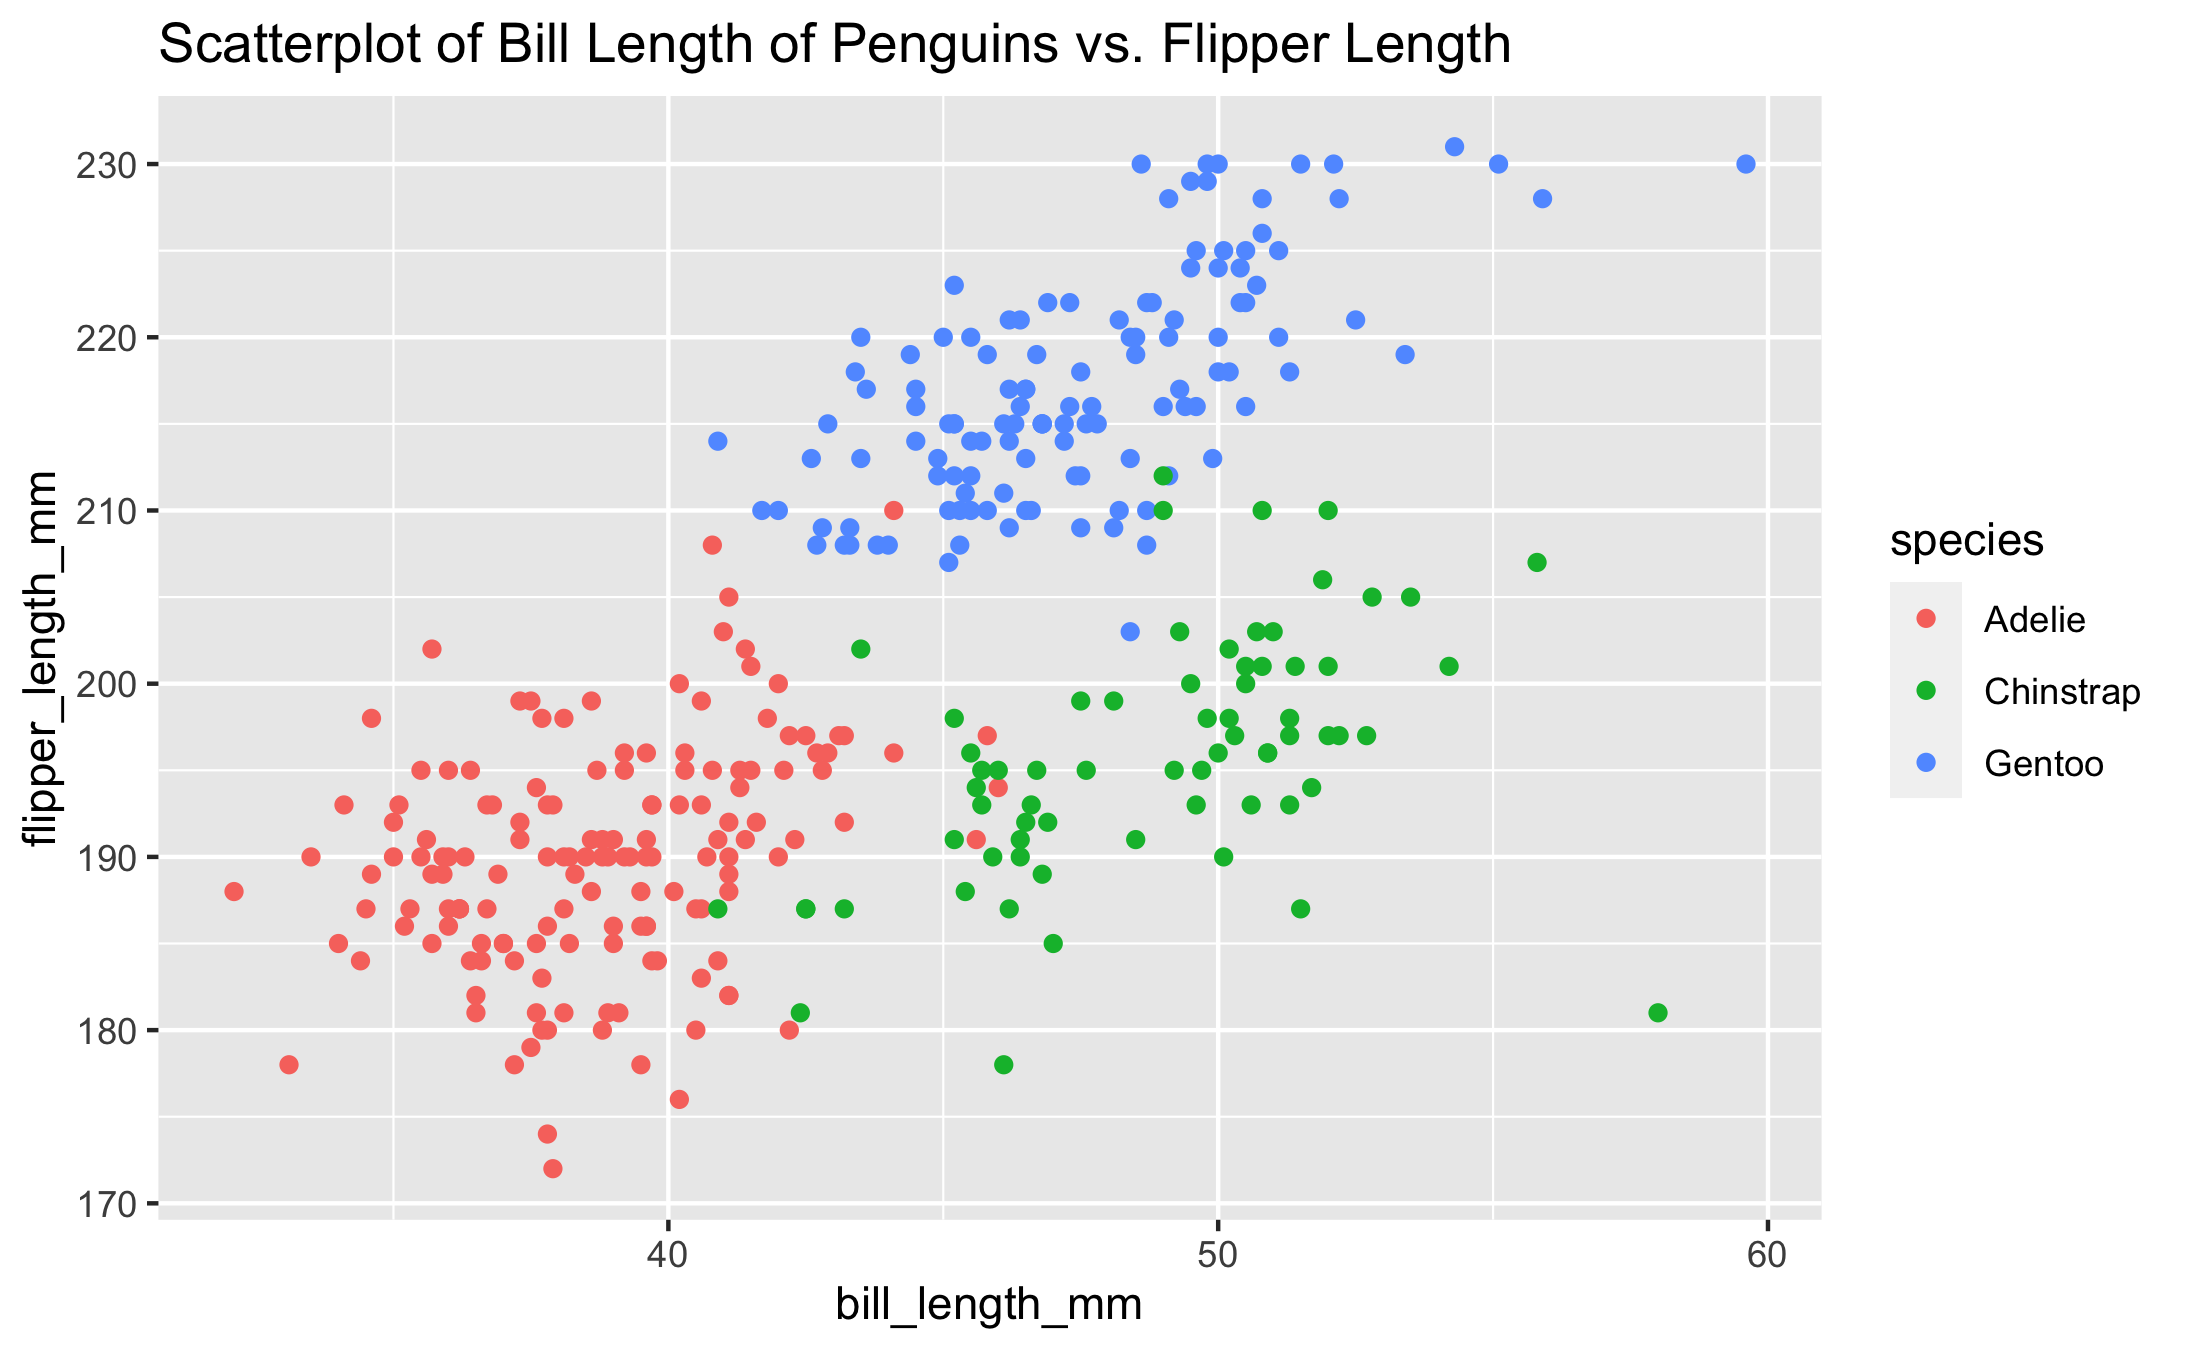
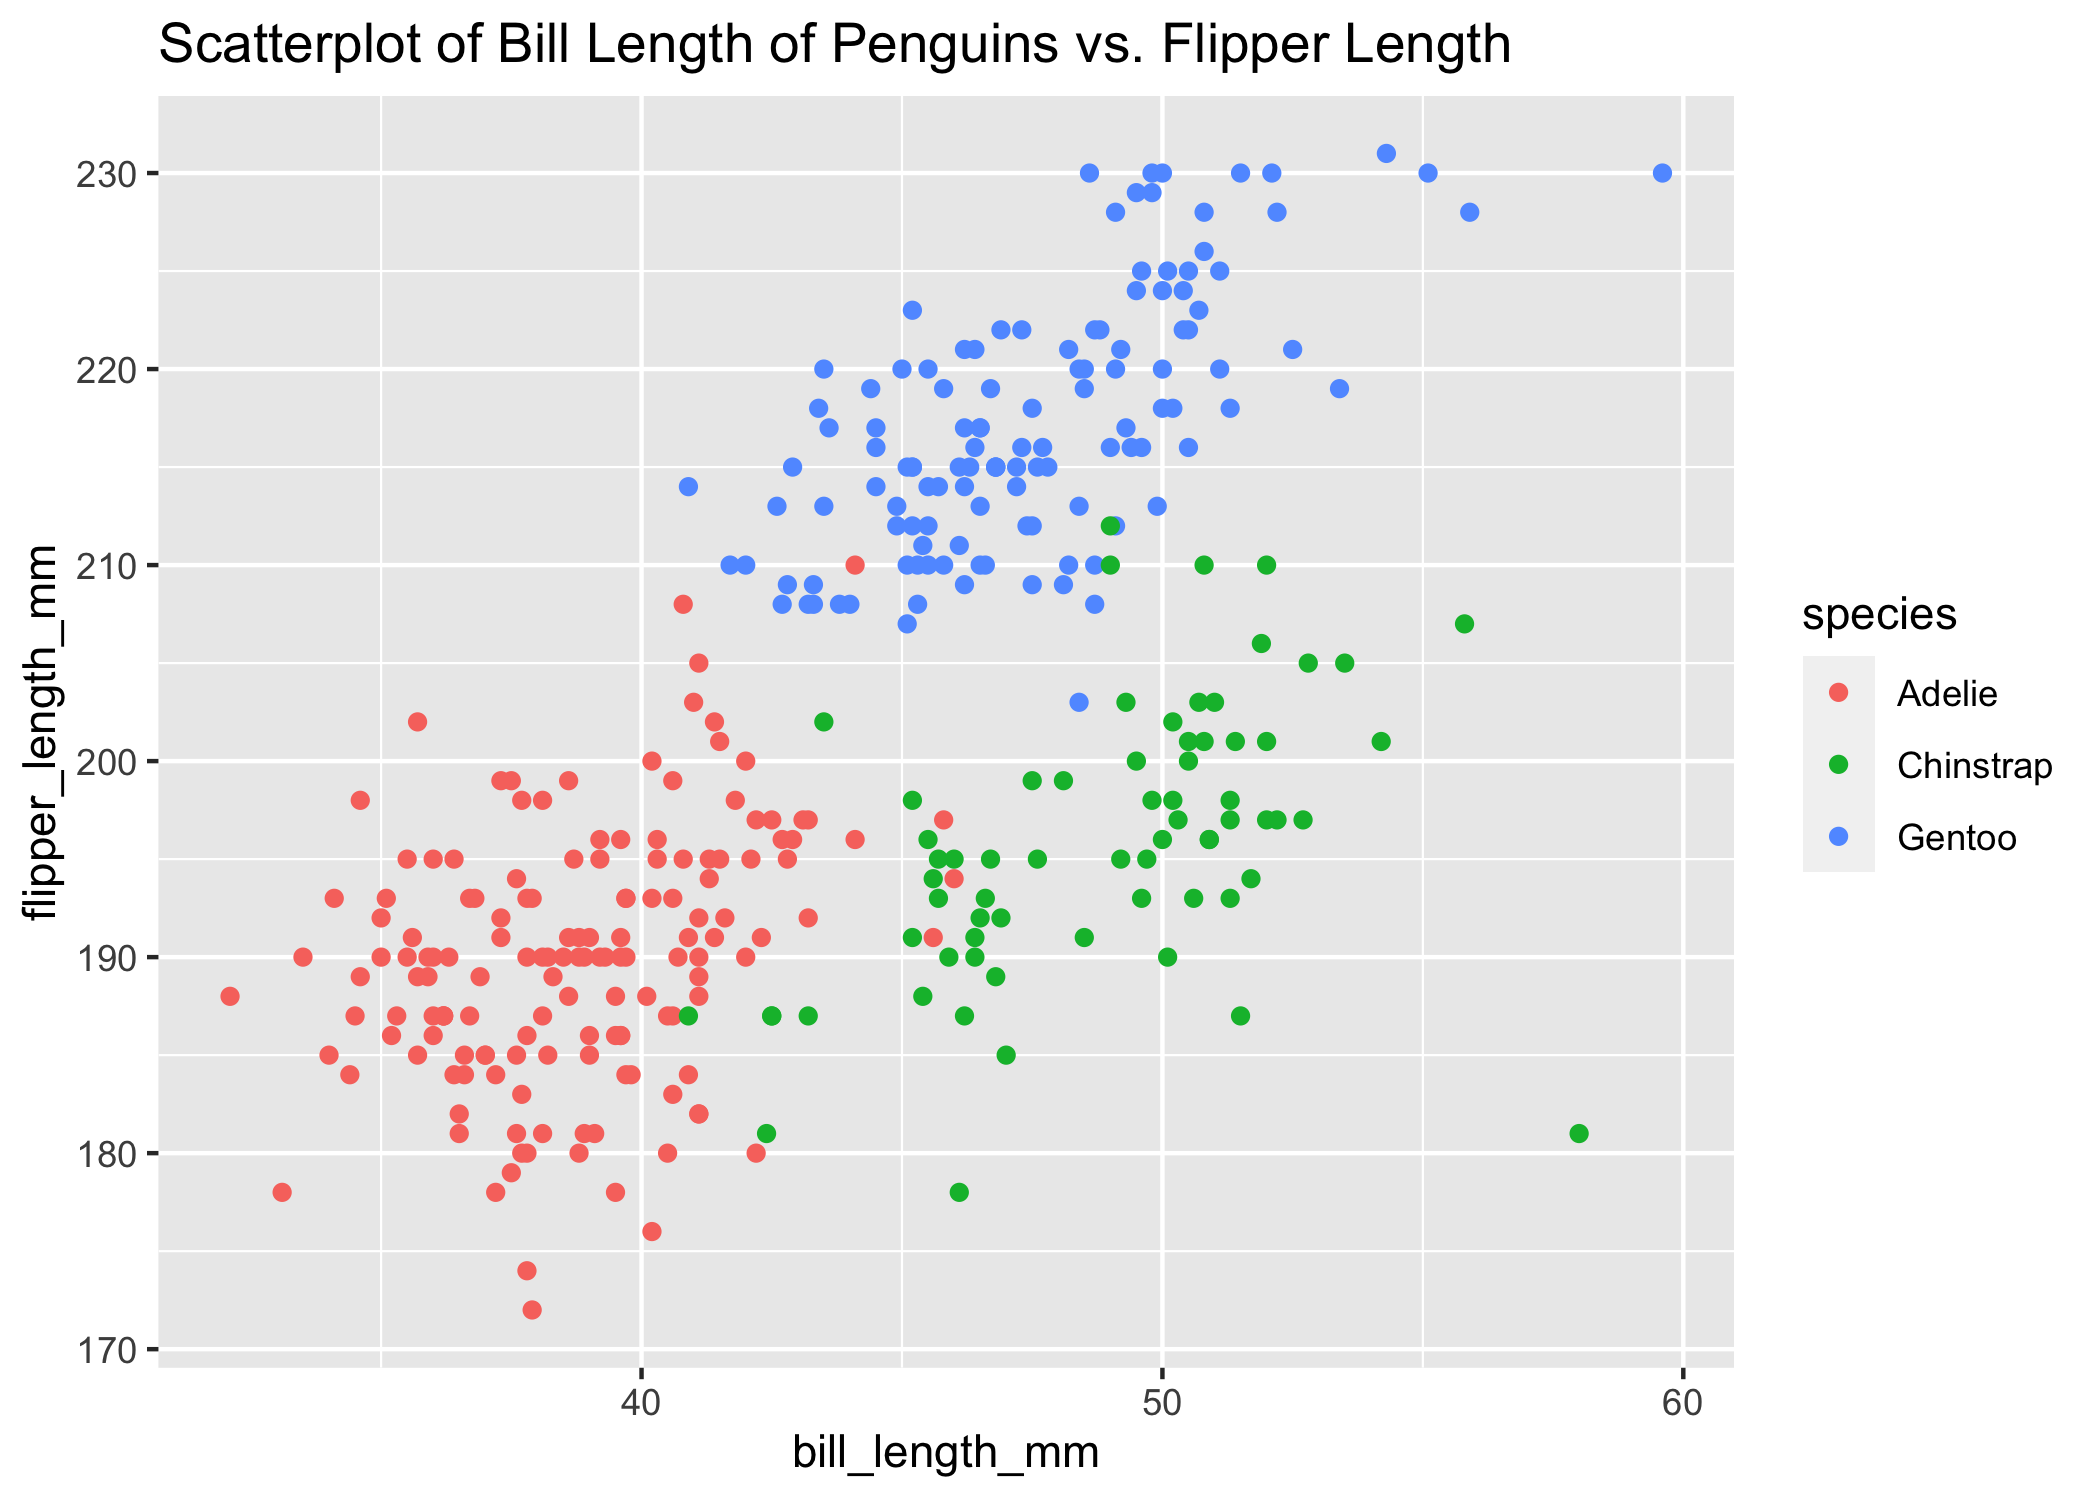
Knit document

diff --git a/p8105_hw1_yw3439.md b/p8105_hw1_yw3439.md
@@ -1,0 +1,153 @@
+p8105\_hw1\_yw3439
+================
+Qetsiyah Wang
+9/17/2020
+
+## Problem.1 - Data frome and Variable
+
+``` r
+frame_x = tibble(
+  sample_x = rnorm(10),
+  logi_vec = sample_x > 0,
+  subj_char = c("math", "english", "history", "chinese", "science", "biology", 
+               "politics", "geography", "physics", "chemistry"),
+  county_fac = as.factor(c("Manhattan","Manhattan","Manhattan","Manhattan", 
+                        "Queen", "Queen", "Queen",
+                        "Bronx", "Bronx", "Bronx"))
+)
+
+mean_sample = mean(pull(frame_x, sample_x))
+mean_logi = mean(pull(frame_x, logi_vec))
+mean_char = mean(pull(frame_x, subj_char))
+```
+
+    ## Warning in mean.default(pull(frame_x, subj_char)): argument is not numeric or
+    ## logical: returning NA
+
+``` r
+mean_fac = mean(pull(frame_x, county_fac))
+```
+
+    ## Warning in mean.default(pull(frame_x, county_fac)): argument is not numeric or
+    ## logical: returning NA
+
+``` r
+knitr::kable(frame_x)
+```
+
+|   sample\_x | logi\_vec | subj\_char | county\_fac |
+| ----------: | :-------- | :--------- | :---------- |
+|   0.5726422 | TRUE      | math       | Manhattan   |
+|   0.5597723 | TRUE      | english    | Manhattan   |
+| \-1.3026831 | FALSE     | history    | Manhattan   |
+|   0.2138611 | TRUE      | chinese    | Manhattan   |
+| \-0.0249582 | FALSE     | science    | Queen       |
+|   0.0295232 | TRUE      | biology    | Queen       |
+|   0.1853763 | TRUE      | politics   | Queen       |
+| \-1.0486363 | FALSE     | geography  | Bronx       |
+|   1.9409961 | TRUE      | physics    | Bronx       |
+| \-0.1724575 | FALSE     | chemistry  | Bronx       |
+
+In the data frame x, sample\_x is numeric containing random numbers from
+a standard distribution. logi\_vec contains boolean statements from
+identifying if the vector in sample\_x is bigger than 0. subj\_char
+consists of subjects as character vectors. county\_fac has 10 vectors
+with 3 different factor levels “Manhattan”, “Queen” and “Bronx”. While
+taking the mean for each variable, there is a warning coming up showing
+that argument is not numeric or logical so that returning NA. Only
+sample\_x and logi\_vec have mean results but not subj\_char and
+county\_fac, because vectors in subj\_vec are characters and in
+county\_fac are factors, which both cannot be applied with the mean
+function.
+
+``` r
+frame_x %>%
+  mutate(
+    logi_vec = as.numeric(logi_vec),
+    subj_char = as.numeric(subj_char),
+    county_fac = as.numeric(county_fac)
+  )
+
+mean_sample = mean(pull(frame_x, sample_x))
+mean_logi = mean(pull(frame_x, logi_vec))
+mean_char = mean(pull(frame_x, subj_char))
+mean_fac = mean(pull(frame_x, county_fac))
+```
+
+After using the as.numeric function, while applying the mean function
+with all four variables, there is no any warning popping out anymore.
+That is because that vectors in all four variables change into double
+vectors by as.numeric, allowing four variables to be able to calculate
+the mean through the same function used before.
+
+``` r
+frame_x_logi = frame_x %>%
+  mutate(
+    num_logi = (as.numeric(logi_vec))*sample_x,
+    fac_logi = as.factor(logi_vec)*sample_x,
+    num_fac_logi = (as.numeric(as.factor(logi_vec)))*sample_x
+  ) %>%
+  select(num_logi, fac_logi, num_fac_logi)
+```
+
+    ## Warning: Problem with `mutate()` input `fac_logi`.
+    ## ℹ '*' not meaningful for factors
+    ## ℹ Input `fac_logi` is `as.factor(logi_vec) * sample_x`.
+
+    ## Warning in Ops.factor(as.factor(logi_vec), sample_x): '*' not meaningful for
+    ## factors
+
+``` r
+knitr::kable(frame_x_logi)
+```
+
+| num\_logi | fac\_logi | num\_fac\_logi |
+| --------: | :-------- | -------------: |
+| 0.5726422 | NA        |      1.1452844 |
+| 0.5597723 | NA        |      1.1195446 |
+| 0.0000000 | NA        |    \-1.3026831 |
+| 0.2138611 | NA        |      0.4277222 |
+| 0.0000000 | NA        |    \-0.0249582 |
+| 0.0295232 | NA        |      0.0590465 |
+| 0.1853763 | NA        |      0.3707526 |
+| 0.0000000 | NA        |    \-1.0486363 |
+| 1.9409961 | NA        |      3.8819922 |
+| 0.0000000 | NA        |    \-0.1724575 |
+
+Using as.numeric function for logi\_vec changes the original boolean
+into numeric vectors that allows further calculation with sample\_x.
+While using as.factor function for logi\_vec, boolean changes from
+boolean into factors which are still not applicable for the numeric
+calculation. However, after using as.numeric for changing the factors
+into the numeric type, vectors now in fac\_logi are able to apply for
+the mathematical calculation with sample\_x.
+
+## Problem. 2 - Penguins
+
+``` r
+data("penguins", package = "palmerpenguins")
+```
+
+The dataset “penguins” contained 8 variables and 344 observations. The
+dataset describes different features of penguins, including their
+species, island, bill\_length\_mm, bill\_depth\_mm, flipper\_length\_mm,
+body\_mass\_g, sex, year. The whole dataset contains 3 types of
+penguins, Adelie, Chinstrap, Gentoo. They are from different islands,
+Biscoe, Dream, Torgersen. The bill length ranges from 32.1 mm to 59.6
+mm. The body mass ranges from 2700 g to 6300 g. The mean of the flipper
+length is 200.9152047 mm.
+
+``` r
+penguins %>%
+  ggplot(aes(x = bill_length_mm, y = flipper_length_mm, color = species)) +
+  geom_point(na.rm = TRUE) +
+  labs(title = "Scatterplot of Bill Length of Penguins vs. Flipper Length") 
+```
+
+![](p8105_hw1_yw3439_files/figure-gfm/unnamed-chunk-5-1.png)<!-- -->
+
+``` r
+ggsave("penguins.png")
+```
+
+    ## Saving 7 x 5 in image
